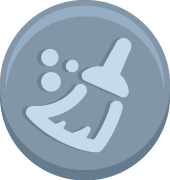
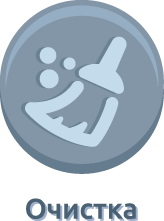
обновление кнопок, пауза, надпись включения скилов

diff --git a/public/lib/mainScene.js b/public/lib/mainScene.js
@@ -3,8 +3,6 @@ var isNeedDarknes = false;
 var switchToRaiting = false;
 var cursors;
 
-var nowDifficulty;
-
 var scoreMultiplier = 0;
 var scoreMultiplierDis = 1;
 var player_score = 0;
@@ -17,7 +15,6 @@ var destroyGroup = [];
 var bonusSkill = null;
 var folowObject = null;
 var skillShadow;
-var skillMem= 0;
 
 var blue = ['b1', 'b2', 'b3', 'b4', 'b5', 'b6', 'b7', 'b8', 'b9', 'b10', 'b11', 'b12', 'b13', 'b14', 'b15', 'b16',
     'b17', 'b18', 'b19', 'b20'];
@@ -34,7 +31,6 @@ var auto_on;
 var one_on;
 var slow_on;
 
-var light_clear_on;
 var light_auto_on;
 var light_one_on;
 var light_slow_on;
@@ -51,10 +47,6 @@ var intervalCreateTrash;
 
 var scoreDifficulty;
 
-var nowSkill1;
-var nowSkill2;
-var nowSkill3;
-var nowSkill4;
 var nowCreateTrash;
 var nowScoreDifficulty;
 
@@ -64,12 +56,14 @@ const timerAuto = 45000;
 const timerOne = 45000;
 const timerSlow = 45000;
 
-
 const batary_case_speed = 4500;
 var batary_counter = -1;
 
 var tutFirstGameTraining;
 
+var pauseMenu = false;
+var pauseCon;
+var tweensBattaryCase;
 var MainSc = new Phaser.Class({
 
     Extends: Phaser.Scene,
@@ -84,6 +78,7 @@ var MainSc = new Phaser.Class({
         console.log(data.name);
         player_score = 0;
 
+        scoreMultiplier = null;
         now = this.time.now;
         slow_trash = false;
         one_trash = false;
@@ -153,11 +148,13 @@ var MainSc = new Phaser.Class({
 
         this.add.sprite(midle_window, 0, 'con1').setOrigin(0.5, 0).setScale(global_scale).play('conveer');
 
+        pauseCon = this.add.sprite(midle_window, 0, 'con1').setOrigin(0.5, 0).setScale(global_scale).setVisible(false);
+
         this.physics.add.sprite(0, 0, 'rails').setOrigin(0.5, 0.5).setScale(global_scale)
             .setPosition(midle_window, GLOBAL_HEIGHT * 0.05).setDepth(1);
         var battary_case = this.physics.add.sprite(midle_window + bg_width * 0.4, GLOBAL_HEIGHT * 0.05, 'battary_case')
             .setOrigin(0.5, 0.5).setScale(global_scale).setDepth(2);
-        this.tweens.add({
+        tweensBattaryCase =  this.tweens.add({
             targets: battary_case,
             x: midle_window - bg_width * 0.4,
             ease: 'Linear',
@@ -176,7 +173,7 @@ var MainSc = new Phaser.Class({
 
         var side_middle = (conveer_width + (bg_width - conveer_width)) * 0.25;
         var gsSubstrat = 1.35 * global_scale;
-        light_auto_on = this.add.sprite(midle_window + (bg_width / 3), GLOBAL_HEIGHT / 3, 'substrat')
+        light_auto_on = this.add.sprite(midle_window + (bg_width / 3), GLOBAL_HEIGHT / 3.14, 'substrat')
             .setOrigin(0.5, 0.5).setScale(global_scale).setInteractive().setTint(0xffffff, 0xffffff, 0xffffff, 0xffffff).setAlpha(0.5);
         light_auto_on.visible = false;
         this.tweens.add({
@@ -189,18 +186,18 @@ var MainSc = new Phaser.Class({
             yoyo: true
         });
         this.add.sprite(midle_window + (bg_width / 3), GLOBAL_HEIGHT / 3, 'auto_off')
-            .setOrigin(0.5, 0.5).setScale(global_scale);
+             .setOrigin(0.5, 0.5).setScale(global_scale);
         auto_on = this.add.sprite(midle_window + (bg_width / 3), GLOBAL_HEIGHT / 3, 'auto_on')
             .setOrigin(0.5, 0.5).setScale(global_scale).setInteractive().on("pointerdown", autoTrash, this);
-        auto_on.visible = false;
+        auto_on.visible = isInputUserMail;
 
         this.add.sprite(midle_window + (bg_width / 3), GLOBAL_HEIGHT / 6, 'clear_off')
             .setOrigin(0.5, 0.5).setScale(global_scale);
         clear_on = this.add.sprite(midle_window + (bg_width / 3), GLOBAL_HEIGHT / 6, 'clear_on')
             .setOrigin(0.5, 0.5).setScale(global_scale).setInteractive().on("pointerdown", clearConveer, this);
-        clear_on.visible = false;
+        clear_on.visible = isInputUserMail;
 
-        light_one_on = this.add.sprite(midle_window - (bg_width / 3), GLOBAL_HEIGHT / 6, 'substrat')
+        light_one_on = this.add.sprite(midle_window - (bg_width / 3), GLOBAL_HEIGHT / 6.5, 'substrat')
             .setOrigin(0.5, 0.5).setScale(global_scale).setInteractive().setTint(0xffffff, 0xffffff, 0xffffff, 0xffffff).setAlpha(0.5);
         light_one_on.visible = false;
         this.tweens.add({
@@ -216,10 +213,10 @@ var MainSc = new Phaser.Class({
             .setOrigin(0.5, 0.5).setScale(global_scale);
         one_on = this.add.sprite(midle_window - (bg_width / 3), GLOBAL_HEIGHT / 6, 'one_on')
             .setOrigin(0.5, 0.5).setScale(global_scale).setInteractive().on("pointerdown", oneTrash, this);
-        one_on.visible = false;
+        one_on.visible = isInputUserMail;
 
 
-        light_slow_on = this.add.sprite(midle_window - (bg_width / 3), GLOBAL_HEIGHT / 3, 'substrat')
+        light_slow_on = this.add.sprite(midle_window - (bg_width / 3), GLOBAL_HEIGHT / 3.14, 'substrat')
             .setOrigin(0.5, 0.5).setScale(global_scale).setInteractive().setTint(0xffffff, 0xffffff, 0xffffff, 0xffffff).setAlpha(0.5);
         light_slow_on.visible = false;
         this.tweens.add({
@@ -235,11 +232,16 @@ var MainSc = new Phaser.Class({
             .setOrigin(0.5, 0.5).setScale(global_scale);
         slow_on = this.add.sprite(midle_window - (bg_width / 3), GLOBAL_HEIGHT / 3, 'slow_on')
             .setOrigin(0.5, 0.5).setScale(global_scale).setInteractive().on("pointerdown", slowTrash, this);
-        slow_on.visible = false;
+        slow_on.visible = isInputUserMail;
 
         this.add.sprite(midle_window + side_middle, GLOBAL_HEIGHT * 0.875, 'menu_on')
             .setOrigin(0, 0).setScale(global_scale).setInteractive()
             .on("pointerup", function () {
+                tweensBattaryCase.pause();
+                pauseCon.visible = true;
+                nowCreateTrash  = now;
+                nowScoreDifficulty = scoreDifficulty;
+                pauseMenu = true;
                 createDialog.call(this);
             }, this);
 
@@ -249,11 +251,6 @@ var MainSc = new Phaser.Class({
 
         }).setStroke('#ffa500', 5).setShadow(2, 2, "#333333", 2, true, true);
 
-        // scoreMultiplierDis = this.add.text(text_score.x + text_score.width + text_score.width * 1.5, text_score.y + text_score.height/3, null, {
-        //     font: DEVICE_SIZE * 3 + 'vh Ubuntu',
-        //     fill: "#fff",
-        //
-        // }).setStroke('#ffa500', 5).setShadow(2, 2, "#333333", 2, true, true).setVisible(false);
 
         this.physics.add.overlap(battary_case, group, function (s1, s2) {
             if (s2.type === 'acc') {
@@ -443,10 +440,15 @@ var MainSc = new Phaser.Class({
         tutFirstGameTraining = this.add.sprite(midle_window, 0, 'tut4').setDepth(10)
             .setOrigin(0.5, 0).setScale(global_scale).setInteractive().setVisible(false)
             .on("pointerdown", function (pointer) {
+                isFirstGameTrainingDisplay = true;
+                activeGroup.getChildren().forEach(function (trash) {
+                    trash.setVelocityY(speedTrash * DEVICE_SIZE_SPEED);
+                });
+                group.getChildren().forEach(function (trash) {
+                    trash.setVelocityY((speedTrash + 350) * DEVICE_SIZE_SPEED);
+                });
                 tutFirstGameTraining.setVisible(false);
             });
-
-
 
     },
 
@@ -469,11 +471,28 @@ var MainSc = new Phaser.Class({
             this.scene.start('raiting', {name: 'Move from Main to Raiting'});
         }
 
-        if (isPause) {
+
+        if (isPause || pauseMenu || tutFirstGameTraining.visible) {
+            isPausePast = true;
+            activeGroup.getChildren().forEach(function (trash) {
+            trash.setVelocityY(0);
+        });
+            group.getChildren().forEach(function (trash) {
+                trash.setVelocityY(0);
+            });
             return
         }
+        if(isPausePast){
+            now2 = this.time.now - now2;
+            now3 = this.time.now - now3;
+            now4 = this.time.now - now4;
+            now = this.time.now - nowCreateTrash;
+            scoreDifficulty = this.time.now - nowScoreDifficulty;
+            isPausePast = false;
+        }
+
         // Увеличение скорости падения мусора, уменьшение интервала создания мусора
-        if (player_score > 5 && !tutFirstGameTraining.visible) {
+        if (player_score > 5) {
             if (this.time.now - scoreDifficulty > intervalScoreDiff) {
                 speedTrash = speedTrash + 2;
                 if (intervalCreateTrash > 1000) {
@@ -494,8 +513,8 @@ var MainSc = new Phaser.Class({
         // Изменения очков
         text_score.text = player_score;
 
-        if(Math.floor(scoreMultiplier/5)>4){
-            var t = Math.floor(scoreMultiplier/5)>14 ? 'x5': Math.floor(scoreMultiplier/5)>9 ? 'x3' : 'x2';
+        if(scoreMultiplier>4){
+            var t = scoreMultiplier>14 ? 'x5':scoreMultiplier>9 ? 'x3' : 'x2';
             text_score.text = text_score.text + t;
             scoreMultiplierDis = Math.floor(scoreMultiplier/5)>14 ? 5: Math.floor(scoreMultiplier/5)>9 ? 3 : 2;
         }
@@ -517,27 +536,20 @@ var MainSc = new Phaser.Class({
             darkness.call(this);
         }
 
-        var interval = intervalCreateTrash*3 + (300 + Math.floor((1500 - 300) * Math.random()));
+        var interval = intervalCreateTrash + (300 + Math.floor((1500 - 300) * Math.random()));
         // Изменение интервала создания мусора в два раза реже
         if (slow_trash) {
             interval = interval * 2;
         }
+
         // Создание мусора
-        if (this.time.now - now > interval && !tutFirstGameTraining.visible) {
+        if (this.time.now - now > interval) {
             now = this.time.now;
             var obj = createAndDropObject.call(this);
             if(obj.hasSkillType !== null){
                 console.log (obj.hasSkillType);
-                console.log('sssssssssss');
                 folowObject = obj;
-                bonusSkill = this.add.sprite(obj.x+100, obj.y+100, obj.hasSkillType+'_on').setOrigin(0.5, 0.5).setScale(global_scale * 0.5).setDepth(20).setTint(COLOR_PRIMARY).setAlpha(0.5);
-            }
-            if (tutFirstGameTraining.visible) {
-                nowCreateTrash = this.time.now - now;
-                nowScoreDifficulty = this.time.now - scoreDifficulty;
-                activeGroup.getChildren().forEach(function (trash) {
-                    trash.setVelocityY(0);
-                });
+                bonusSkill = this.add.sprite(obj.x, obj.y, obj.hasSkillType+'_on').setOrigin(0.5, 0.5).setScale(global_scale * 0.5).setDepth(20).setTint(COLOR_PRIMARY).setAlpha(0.5);
             }
         }
 
@@ -545,8 +557,8 @@ var MainSc = new Phaser.Class({
             if(folowObject!==null){
                 this.tweens.add({
                     targets: bonusSkill,
-                    x: folowObject.x + 90,
-                    y: folowObject.y - 90,
+                    x: folowObject.x + DEVICE_SIZE * 17,
+                    y: folowObject.y - DEVICE_SIZE * 17,
                     ease: 'Linear',
                     duration: 0.1,
                     delay: 0.1,
@@ -554,14 +566,6 @@ var MainSc = new Phaser.Class({
             }else{
                 bonusSkill.destroy();
             }
-        }
-        if (!isFirstGameTraining && !tutFirstGameTraining.visible && !isFirstGameTrainingDisplay) {
-            now = nowCreateTrash + this.time.now;
-            scoreDifficulty = nowScoreDifficulty + this.time.now;
-            activeGroup.getChildren().forEach(function (trash) {
-                trash.setVelocityY(speedTrash);
-            });
-            isFirstGameTrainingDisplay = true;
         }
         //Автосортровка
         if (auto_trash) {
@@ -574,15 +578,14 @@ var MainSc = new Phaser.Class({
             });
         }
         //таймеры для работы скилов
-
-        if (this.time.now - now2 > timerAuto / 2 && auto_trash && !tutFirstGameTraining.visible) {
+        if (this.time.now - now2 > timerAuto / 2 && auto_trash) {
             auto_trash = false;
             now2 = this.time.now;
             light_auto_on.visible = false;
             auto_type = 0;
         }
 
-        if ((this.time.now - now3 > timerOne / 2) && one_trash && !tutFirstGameTraining.visible) {
+        if ((this.time.now - now3 > timerOne / 2) && one_trash) {
             if (one_type === 1) {
                 grey_bak.setTint();
             }
@@ -595,7 +598,7 @@ var MainSc = new Phaser.Class({
             one_type = 0;
         }
 
-        if ((this.time.now - now4 > timerSlow / 2) && slow_trash && !tutFirstGameTraining.visible) {
+        if ((this.time.now - now4 > timerSlow / 2) && slow_trash ) {
             slow_trash = false;
             light_slow_on.visible = false;
             now4 = this.time.now;
@@ -704,7 +707,7 @@ function createAndDropObject() {
     var trashSkillType = null;
     var number = Math.random();
     var toxic = false;
-    if(Math.random() > 0.1){
+    if(Math.random() > 0.7){
         var skillType = Math.random();
         if(skillType > 0.7){
             trashSkillType = 'auto';
@@ -733,6 +736,8 @@ function createAndDropObject() {
         if (number > 0.8 && batary_counter < 0) {
             if (isFirstGameTraining) {
                 isFirstGameTraining = false;
+                nowCreateTrash  = now;
+                nowScoreDifficulty = scoreDifficulty;
                 tutFirstGameTraining.setVisible(true);
             }
             trash = acc[Math.floor(Math.random() * acc.length)];
@@ -776,6 +781,7 @@ function getRandomInt(min, max) {
 }
 
 function autoTrash() {
+    createNotify('auto', this);
     if (one_type === 0) {
         auto_type = getRandomInt(1, 2);
     } else {
@@ -800,6 +806,7 @@ function autoSort() {
 }
 
 function clearConveer() {
+    createNotify('clear', this);
     group.clear(true);
     group.getChildren().forEach(function (trash) {
         if (trash.type !== 'acc') {
@@ -824,6 +831,7 @@ function clearConveer() {
 }
 
 function slowTrash() {
+    createNotify('slow', this);
     slow_trash = true;
     slow_on.visible = false;
     light_slow_on.visible = true;
@@ -831,6 +839,7 @@ function slowTrash() {
 }
 
 function oneTrash() {
+    createNotify('one', this);
     if (auto_type === 0) {
         one_type = getRandomInt(1, 2);
     } else {
@@ -840,4 +849,23 @@ function oneTrash() {
     light_one_on.visible = true;
     one_on.visible = false;
     now3 = this.time.now;
+}
+
+function createNotify(typeSkill, scene) {
+    var s = scene.add.sprite(midle_window, midle_window_h * 0.5, typeSkill+'_notify')
+        .setOrigin(0.5, 0.5).setScale(global_scale).setDepth(2);
+    scene.tweens.add({
+        targets: s,
+        x: midle_window,
+        y: midle_window_h * 0.5,
+        scaleX: 0.5,
+        scaleY: 0.5,
+        ease: 'Linear',
+        duration: 500,
+        delay: 300,
+        onComplete: function () {
+            s.destroy();
+        },
+    });
+
 }

diff --git a/public/lib/logoScene.js b/public/lib/logoScene.js
@@ -176,6 +176,12 @@ var Logo = new Phaser.Class({
         // this.load.video('tut_video_4', 'tut_4.mp4', 'loadeddata', false, true);
         // this.load.video('tut_video_5', 'tut_5.mp4', 'loadeddata', false, true);
         // this.load.video('tut_video_6', 'tut_6.mp4', 'loadeddata', false, true);
+
+        this.load.image('auto_notify', 'btn/auto_notify.png');
+        this.load.image('one_notify', 'btn/one_notify.png');
+        this.load.image('clear_notify', 'btn/clear_notify.png');
+        this.load.image('slow_notify', 'btn/slow_notify.png');
+
     },
 
     create: function () {

diff --git a/public/lib/raitingScene.js b/public/lib/raitingScene.js
@@ -49,7 +49,7 @@ var Raiting = new Phaser.Class({
             .on("pointerup", function () {
                 if (loginDialog)
                     loginDialog.destroy();
-                createDialog.call(this);
+                this.scene.start('logo', {name: 'Move from Raiting to Logo'});
             }, this);
 
         if (player_score && player_score > 0) {
